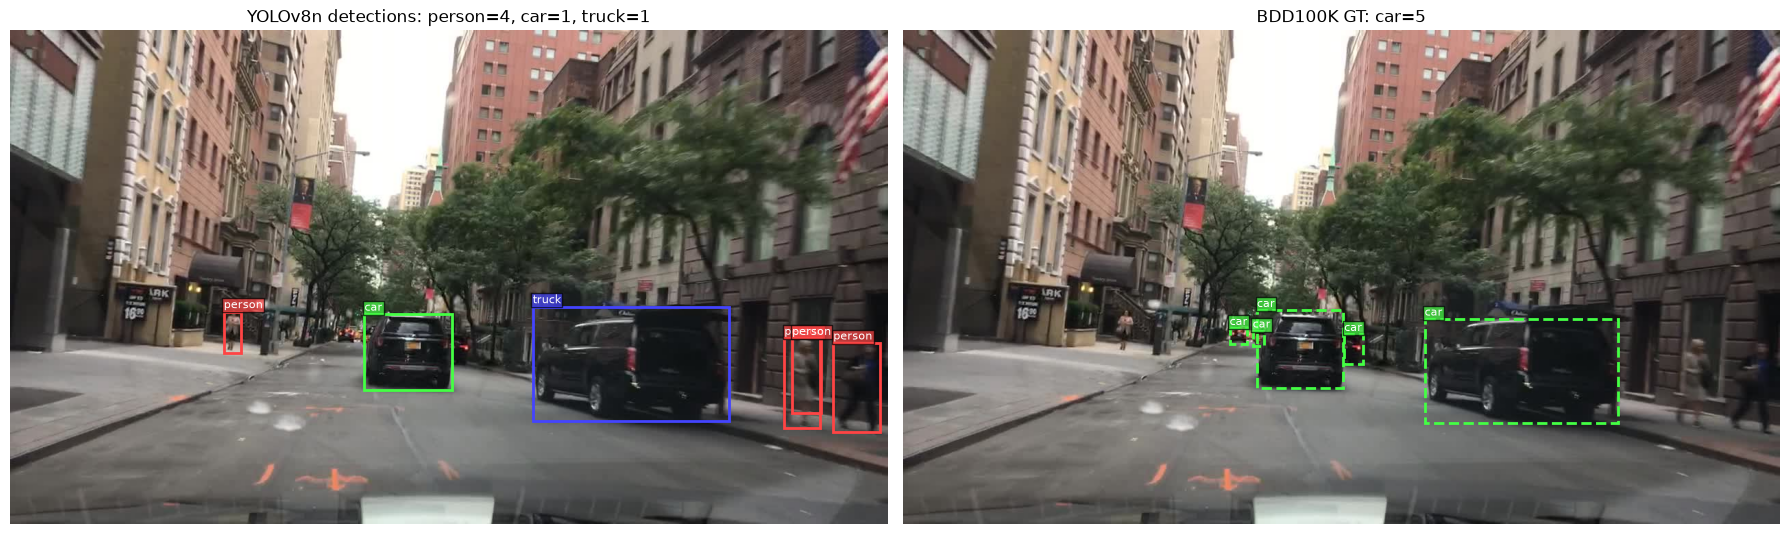
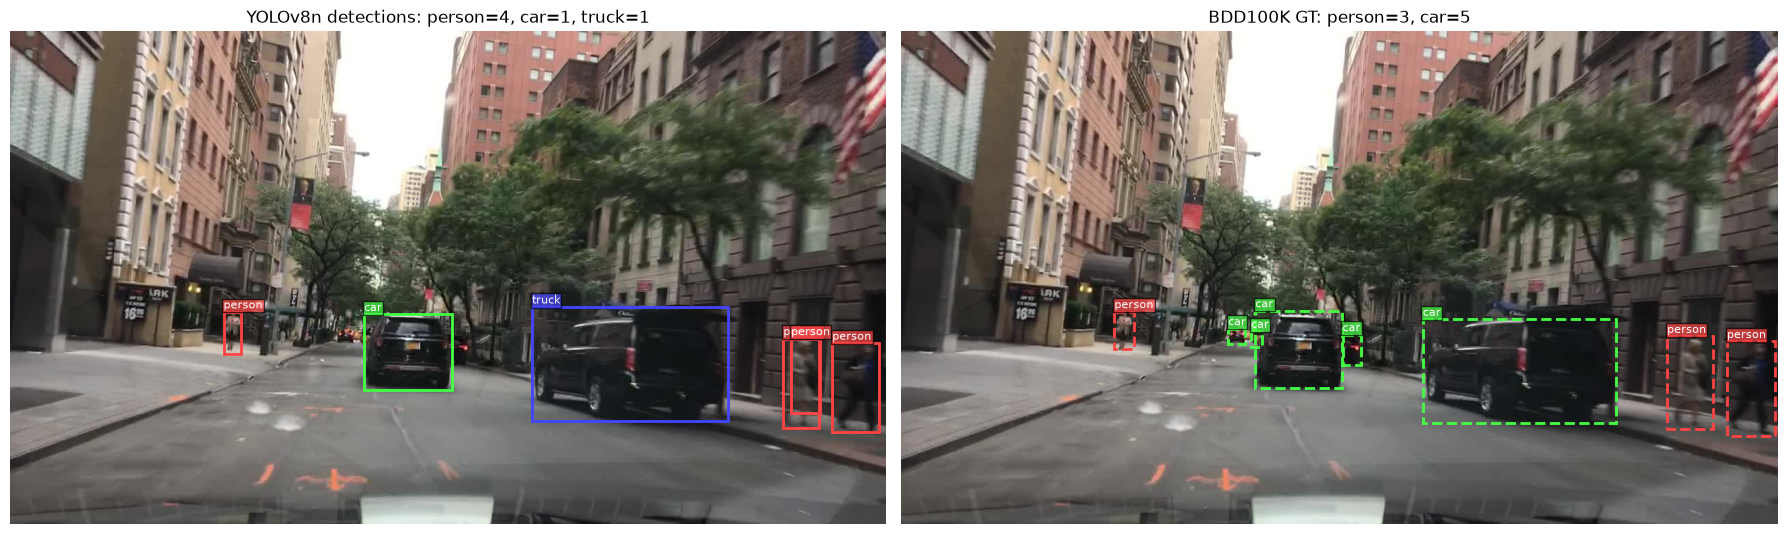
fix(week6): correct BDD100K person category name
BDD100K uses 'person' not 'pedestrian' in detection labels.
Previous run showed GT person=0 because of this mapping bug.

Re-run confirms person GT counts match visual expectations.

diff --git a/scripts/run_yolov8_detection.py b/scripts/run_yolov8_detection.py
@@ -40,7 +40,7 @@ KEEP_COCO_IDS = set(COCO_TO_NAME.keys())
 
 # BDD100K category -> our class name
 BDD_TO_NAME = {
-    "pedestrian": "person",
+    "person": "person",
     "car": "car",
     "truck": "truck",
     "bus": "bus",
